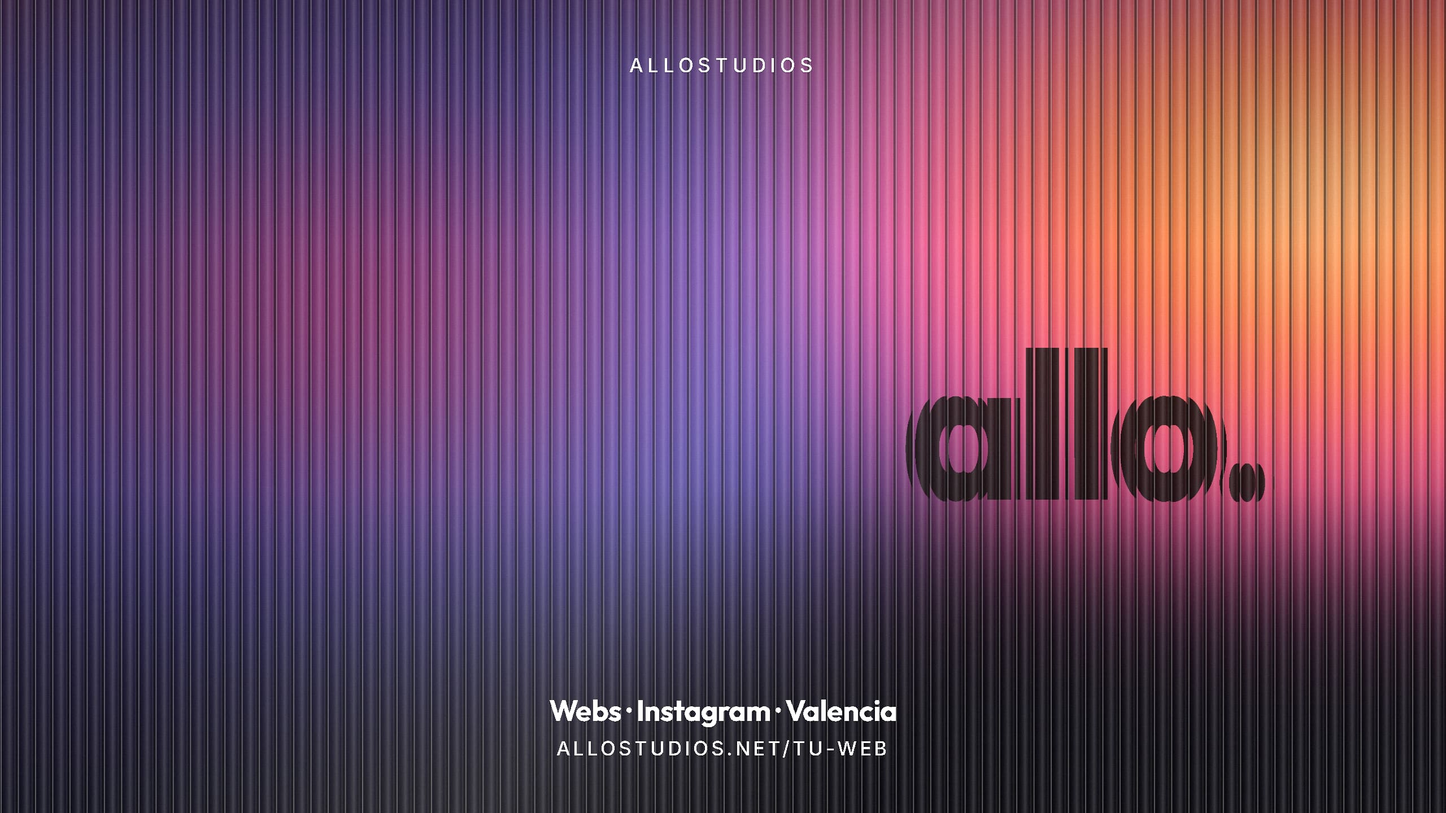
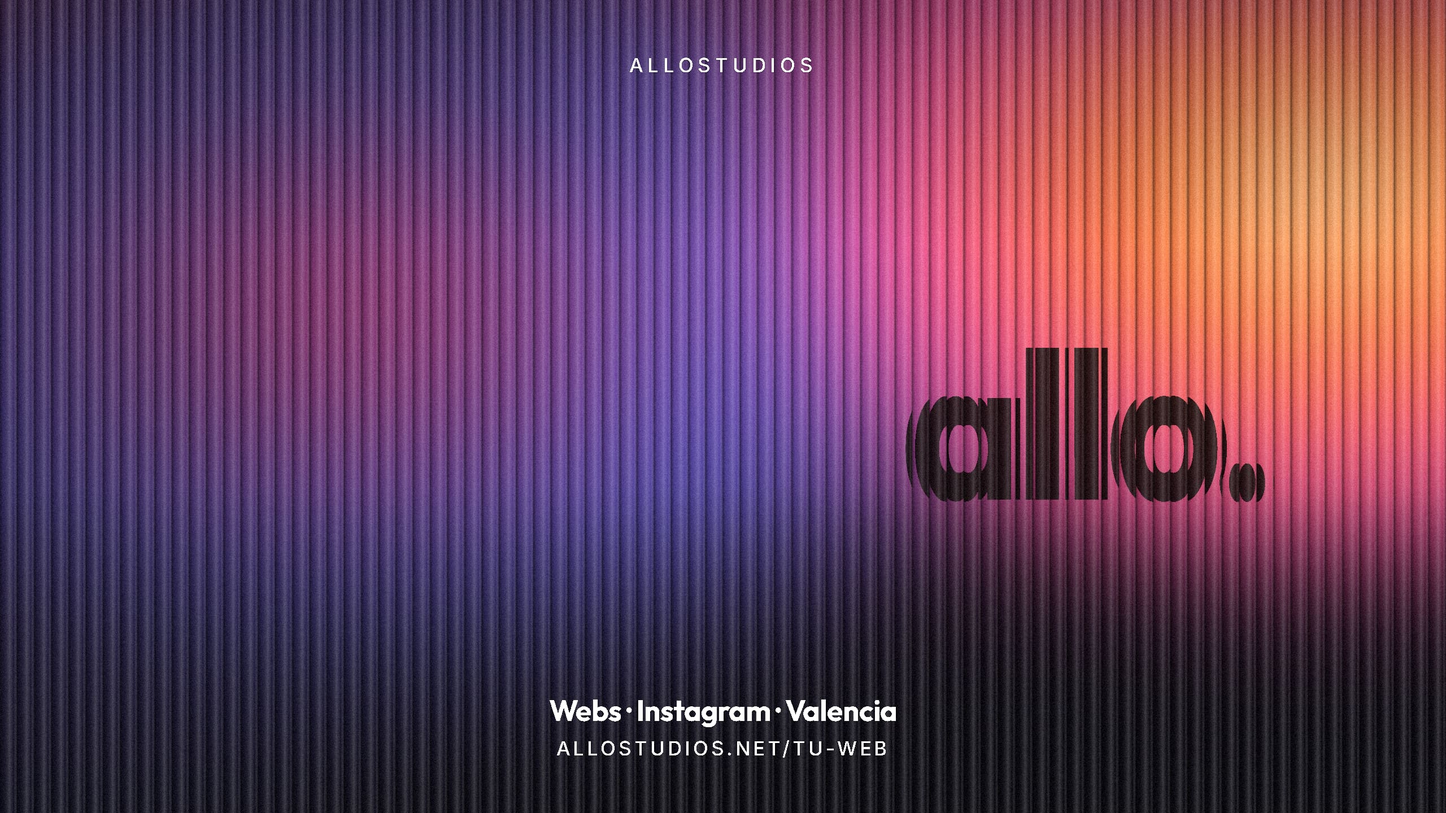
Cabecera: cartel como en 111fa47 + reflejos vivos (luces de marca moviéndose tras el cristal, enmascaradas por las estrías, soft-light)

diff --git a/apps/web/src/app/globals.css b/apps/web/src/app/globals.css
@@ -401,6 +401,19 @@ body:has(.tema-claro){background:#F2F1EE}
   position:absolute;right:0;top:50%;transform:translateY(-50%);width:var(--ew);height:var(--eh)}
 /* el cartel cubre toda la pantalla, sin máscaras ni bandas: en 21:9 se recorta un poco arriba y abajo; en 16:10, por la izquierda (la zona oscura) */
 .tema-oscuro .hero-cartel-img{background:url(/marca/hero-cristal.jpg) center/100% 100% no-repeat}
+/* reflejos vivos: tres luces de la marca se mueven muy despacio detrás del cristal; solo asoman por la cara
+   brillante de cada listón (máscara de rayas al paso de las estrías) y se funden en soft-light, así aclaran
+   los reflejos pero apenas tocan las letras oscuras */
+.tema-oscuro .hero-reflejos{mix-blend-mode:soft-light;opacity:.85;overflow:hidden;pointer-events:none;
+  -webkit-mask-image:repeating-linear-gradient(90deg,transparent 0,transparent 42%,#000 52%,#000 74%,transparent 86%,transparent 100%);mask-image:repeating-linear-gradient(90deg,transparent 0,transparent 42%,#000 52%,#000 74%,transparent 86%,transparent 100%);
+  -webkit-mask-size:calc(var(--ew) / 84) 100%;mask-size:calc(var(--ew) / 84) 100%}
+.tema-oscuro .hero-reflejos i{position:absolute;border-radius:50%;filter:blur(calc(var(--ew) * .06));will-change:transform;animation:reflejo 46s ease-in-out infinite alternate}
+.tema-oscuro .hero-reflejos i:nth-child(1){left:30%;top:10%;width:46%;height:70%;background:radial-gradient(closest-side,#FFE2B0,#FF7A2A 45%,rgba(255,122,42,0));animation-duration:52s}
+.tema-oscuro .hero-reflejos i:nth-child(2){left:0;top:35%;width:44%;height:66%;background:radial-gradient(closest-side,#FF4FA3,#5B5BD6 55%,rgba(91,91,214,0));animation-duration:41s;animation-delay:-14s}
+.tema-oscuro .hero-reflejos i:nth-child(3){left:55%;top:40%;width:40%;height:60%;background:radial-gradient(closest-side,#FFF1B8,#FF4FA3 50%,rgba(255,79,163,0));animation-duration:63s;animation-delay:-29s}
+@keyframes reflejo{0%{transform:translate(-8%,-6%) scale(1)}50%{transform:translate(6%,4%) scale(1.12)}100%{transform:translate(10%,-5%) scale(.96)}}
+@media (prefers-reduced-motion:reduce){.tema-oscuro .hero-reflejos i{animation:none}}
+@media (max-width:767px){.tema-oscuro .hero-reflejos{-webkit-mask-size:calc(100vw / 44) 100%;mask-size:calc(100vw / 44) 100%}}
 /* el panel va a 10.5u del borde del cartel; si el cartel sobresale por la izquierda (pantallas más altas que 16:9), se queda a 24 px del borde de la pantalla */
 .tema-oscuro .hero-panel-marco{--pw:min(calc(var(--u) * 84),calc(100vw - 0.425 * var(--ew) - 64px));width:var(--pw);
   left:max(calc(var(--ew) - 100vw + 24px),calc(var(--ew) - 100vw + (100vw - 0.425 * var(--ew) - var(--pw)) / 2));top:50%;transform:translateY(-50%);padding:calc(var(--u) * .9);border-radius:calc(var(--u) * 4.2);background:rgba(255,255,255,.04);box-shadow:inset 0 0 0 1px rgba(255,255,255,.08)}

diff --git a/apps/web/src/components/HeroGlass.tsx b/apps/web/src/components/HeroGlass.tsx
@@ -27,6 +27,7 @@ export default function HeroGlass() {
     <section className="hero relative min-h-[100dvh] overflow-hidden">
       <div className="hero-escenario">
         <div className="hero-cartel-img absolute inset-0" aria-hidden />
+        <div className="hero-reflejos absolute inset-0" aria-hidden><i /><i /><i /></div>
         <motion.div variants={stagger} initial="hidden" animate="show" className="hero-panel-marco absolute">
           <div className="hero-panel">
             <motion.div variants={item} className="hero-etiqueta inline-flex items-center gap-2 rounded-full font-semibold text-dim">
